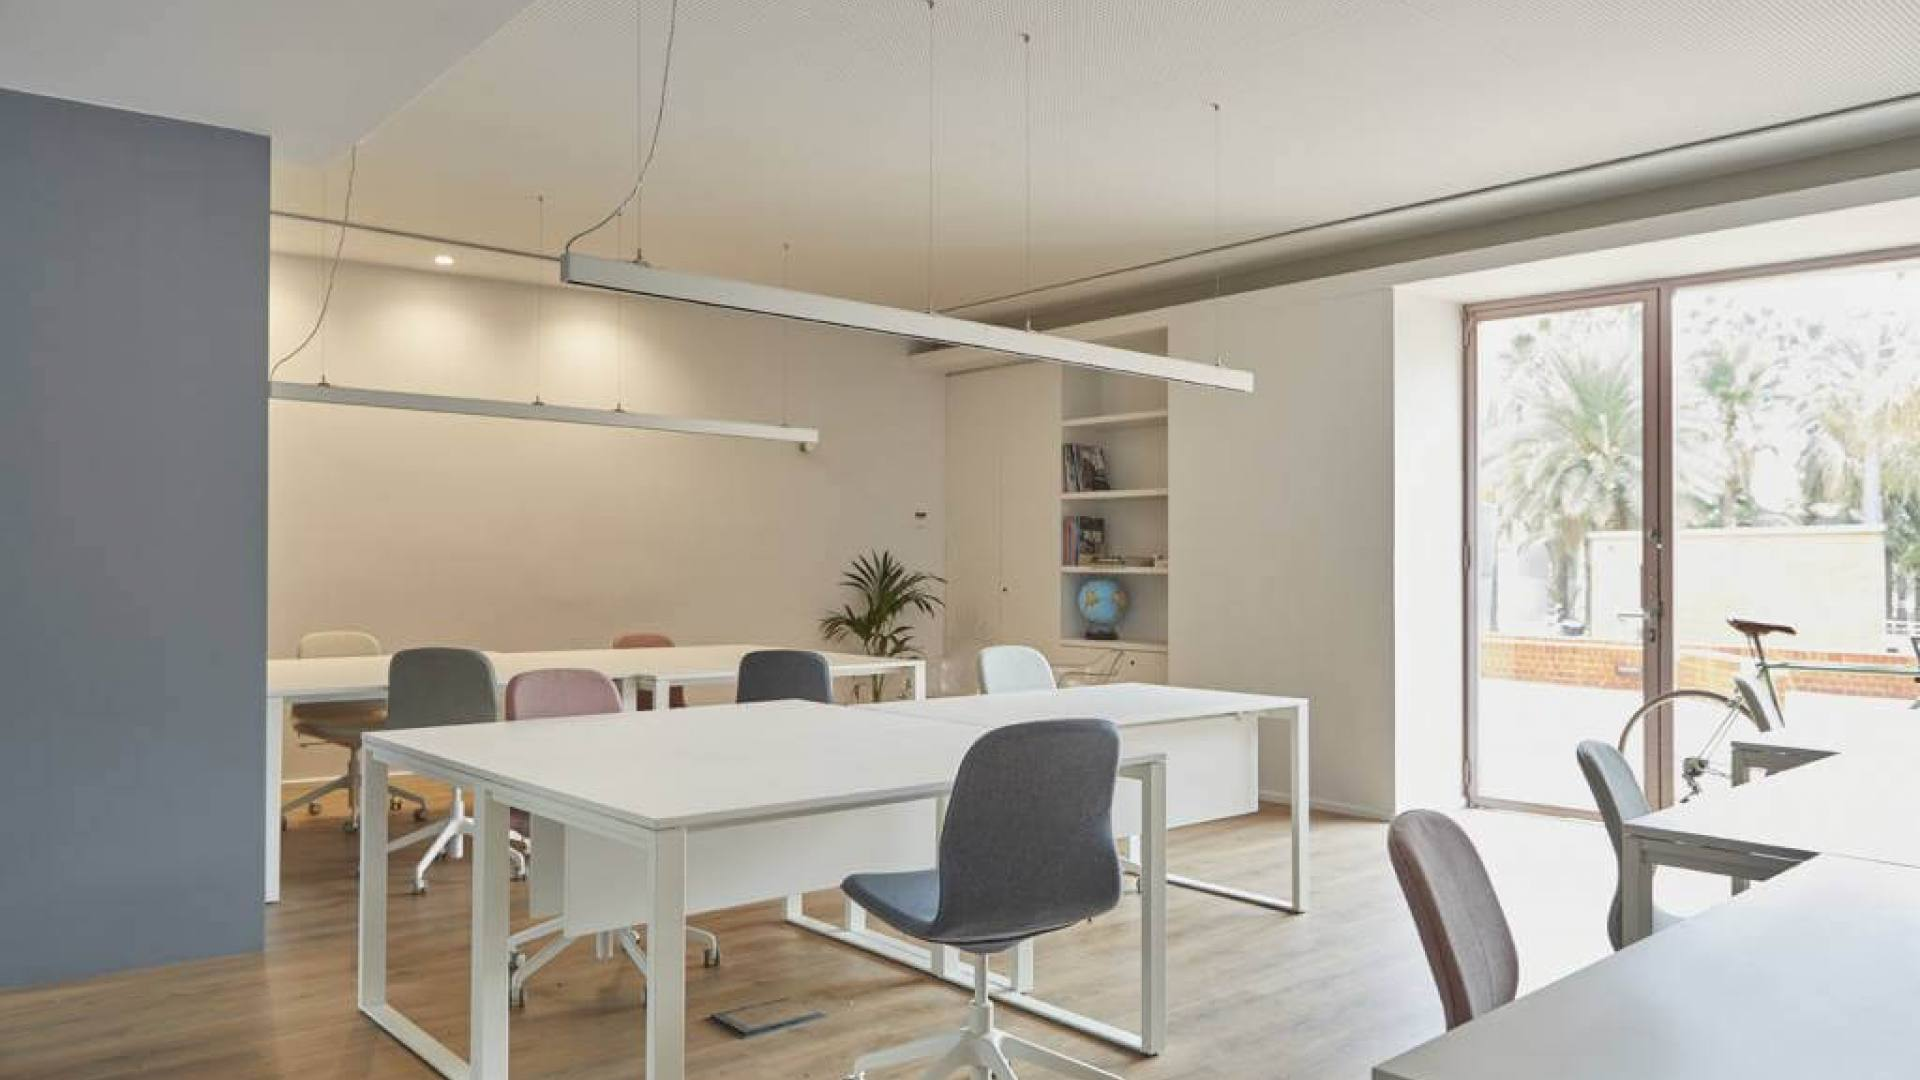
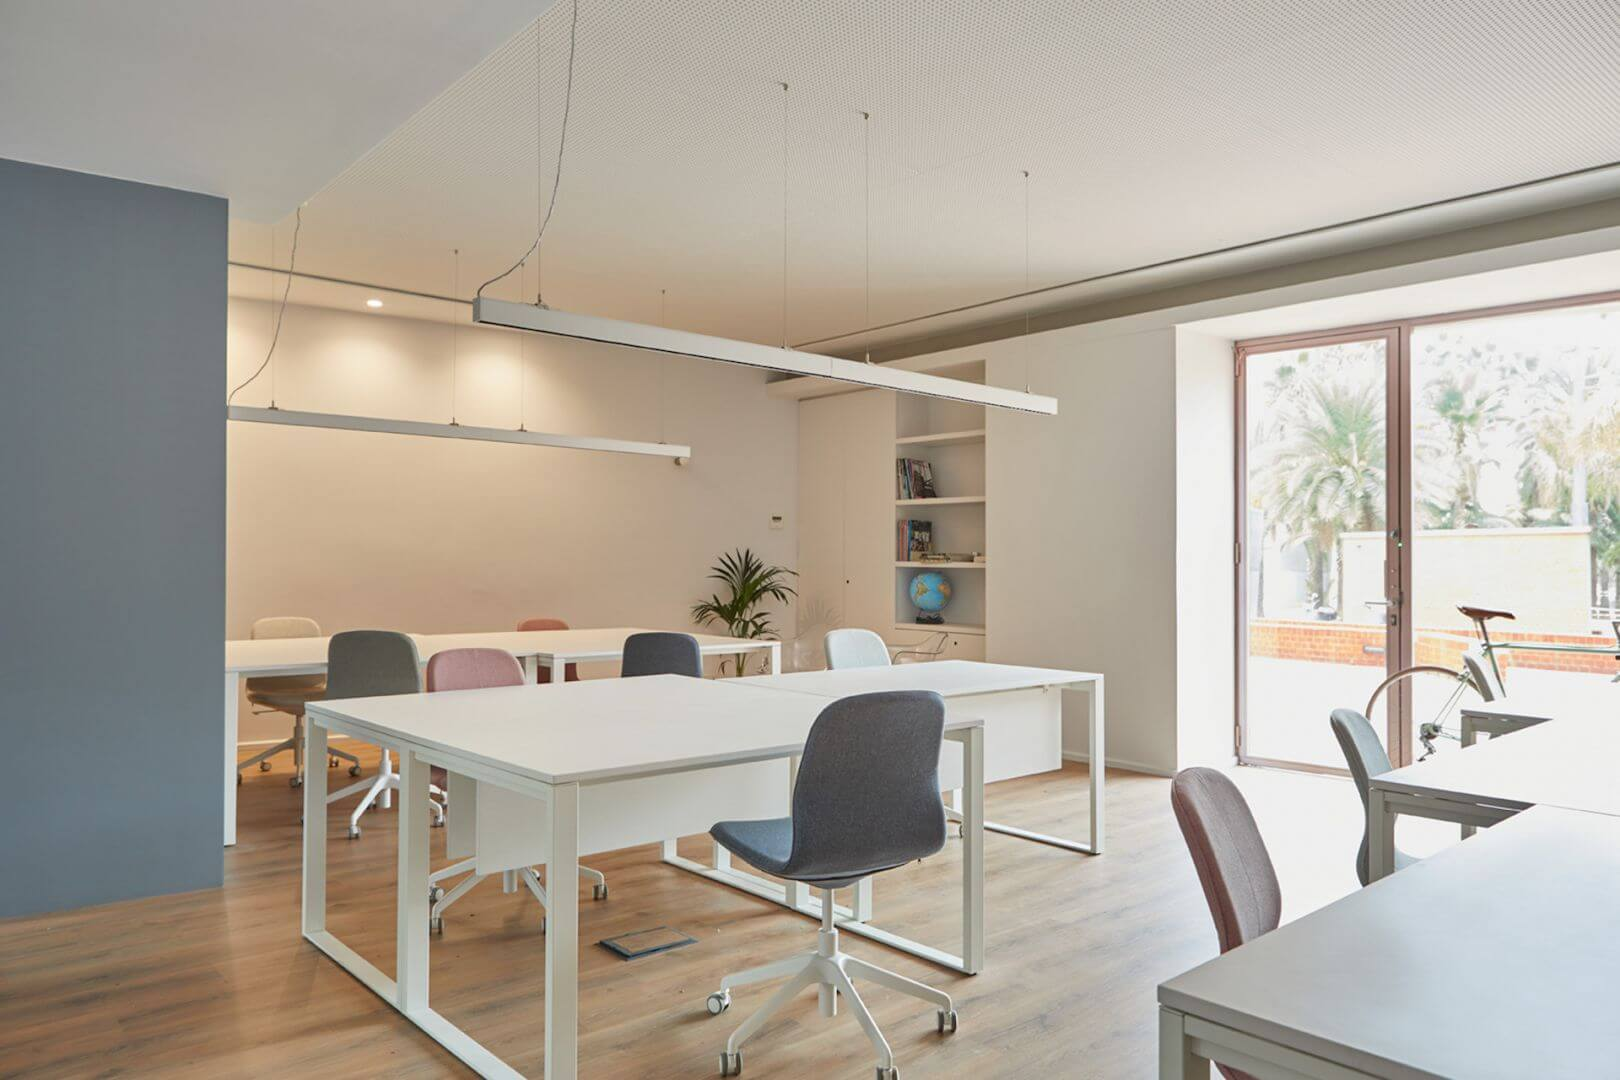
.

diff --git a/index.html b/index.html
@@ -28,6 +28,7 @@
       <div class="container">
         <h1>Need to work hard? Might as well enjoy it!</h1>
         <p>Work comfortably, in good company, and taking healthy breaks whenever you need them.</p>
+        <img src="./img/work-area1.jpg" alt="Working area" />
       </div>
     </section>
     <section id="amenities">
@@ -64,7 +65,7 @@
     <footer>
       <div>
         +34 617 752 918 <br />
-        Coworking La Platja
+        &copy; Coworking La Platja
       </div>
     </footer>
   </body>

diff --git a/css/style.css b/css/style.css
@@ -1,0 +1,18 @@
+body {
+  font-family: Arial, Helvetica, sans-serif;
+  font-size: 15px;
+  line-height: 1.5;
+  padding: 0;
+  margin: 0;
+}
+
+.container {
+  width: 80%;
+  margin: auto;
+  overflow: hidden;
+}
+
+header {
+  font-size: 22px;
+  font-family: oswald-medium, oswald, sans-serif;
+}
